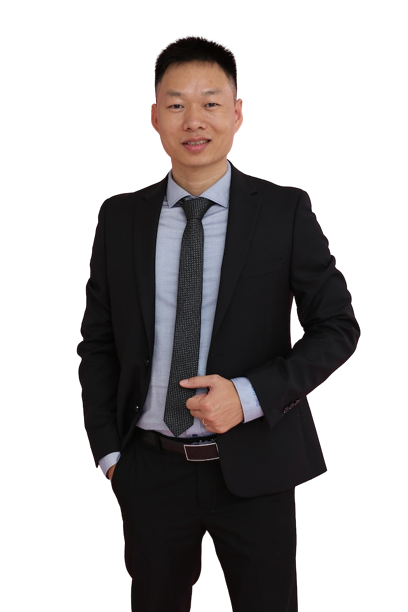
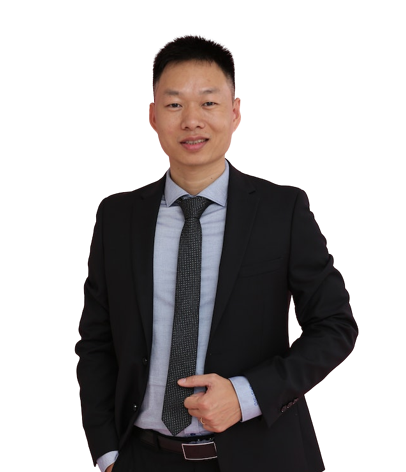
fix coach bg-color

Changed region(s): [[0.1773, 0.0593, 0.8867, 1.0], [0.7094, 0.4746, 0.7685, 0.5636]]

diff --git a/client/src/sections/Hero.tsx b/client/src/sections/Hero.tsx
@@ -13,19 +13,20 @@ function Hero() {
   const handleOnClose = () => setShowLogin(false);
 
   return (
-    <section className='text-white'>
+    <section>
       <div
         style={{ backgroundImage: `url(${kingToKing})` }}
-        className={`flex h-screen items-center bg-no-repeat object-cover px-10 md:justify-end lg:bg-cover`}>
-        <div className='sm:mt-40'>
-          <h1 className='text-3xl font-bold leading-snug tracking-wider sm:text-5xl md:text-7xl'>{slogan}</h1>
-          <div className='mt-20'>
-            <p>{callToAction}</p>
-            <button className='mt-2 flex items-center rounded-lg  border-2 border-cyan-400 p-4'>
-              Join Now
-              {/* <AiOutlineArrowRight className='ml-1 fill-cyan-500' /> */}
-              <BsArrowRight className='ml-1 fill-cyan-500 text-2xl' />
-            </button>
+        className={` grid h-screen justify-end bg-right bg-no-repeat object-cover px-10 text-white lg:aspect-h-9 lg:aspect-w-16 lg:grid-cols-12 lg:bg-cover`}>
+        <div className='grid place-items-center px-4 lg:col-span-full lg:col-start-6'>
+          <div>
+            <h1 className='text-3xl font-bold leading-snug tracking-wider sm:text-5xl md:text-7xl'>{slogan}</h1>
+            <div className='mt-20'>
+              <p>{callToAction}</p>
+              <button className='mt-2 flex items-center rounded-lg  border-2 border-cyan-400 p-4'>
+                Join Now
+                <BsArrowRight className='ml-1 fill-cyan-500 text-2xl' />
+              </button>
+            </div>
           </div>
         </div>
       </div>
@@ -34,3 +35,21 @@ function Hero() {
 }
 
 export default Hero;
+
+// <section className='text-white'>
+//   <div
+//     style={{ backgroundImage: `url(${kingToKing})` }}
+//     className={`flex h-screen items-center bg-no-repeat object-cover px-10 md:justify-end lg:bg-cover`}>
+//     <div className='sm:mt-40'>
+//       <h1 className='text-3xl font-bold leading-snug tracking-wider sm:text-5xl md:text-7xl'>{slogan}</h1>
+//       <div className='mt-20'>
+//         <p>{callToAction}</p>
+//         <button className='mt-2 flex items-center rounded-lg  border-2 border-cyan-400 p-4'>
+//           Join Now
+//           {/* <AiOutlineArrowRight className='ml-1 fill-cyan-500' /> */}
+//           <BsArrowRight className='ml-1 fill-cyan-500 text-2xl' />
+//         </button>
+//       </div>
+//     </div>
+//   </div>
+// </section>

diff --git a/client/src/sections/coaches/Coaches.tsx b/client/src/sections/coaches/Coaches.tsx
@@ -1,5 +1,6 @@
 import React from 'react';
-import studentList from './coach-list';
+import coachList from './coach-list';
+import CoachCard from './CoachCard';
 
 function Coaches() {
   const coachIntro = 'These brilliant minds will surely help you ';
@@ -14,25 +15,7 @@ function Coaches() {
             <span className='self-center md:text-6xl'>Meet Your Coaches</span>
           </h1>
           <p className=' text-xs sm:row-start-2 sm:self-center'>{coachIntro}</p>
-          {studentList.map((student, index) => {
-            return (
-              <div>
-                <div
-                  key={index}
-                  style={{ backgroundImage: `url(${student.portrait})` }}
-                  className={`${student.color} sm:square h-16 bg-cover bg-no-repeat shadow-xl  backdrop-grayscale sm:h-auto`}
-                />
-                <div className='mt-2 flex items-center justify-center space-x-1'>
-                  <h2 className='text-center text-lg '>
-                    <span className='mr-1 rounded bg-cyan-500 px-1 font-bold'>{student.title}</span>
-                    {student.name}
-                    <span className='ml-1'>({student.rating})</span>
-                  </h2>
-                  <img src={student.flag} alt='country-flag' className='h-4 w-4' />
-                </div>
-              </div>
-            );
-          })}
+          <CoachCard />
         </div>
       </div>
     </section>
@@ -40,3 +23,14 @@ function Coaches() {
 }
 
 export default Coaches;
+
+// <div
+//   key={index}
+//   style={{ backgroundImage: `url(${student.portrait})`, boxShadow: '2px 2px #cec7c759' }}
+//   className={`from sm:square h-16 bg-gradient-to-b from-cyan-600 bg-cover bg-no-repeat shadow-lg backdrop-grayscale sm:h-auto`}
+// />
+
+// <div
+//   className={`sm:square relative h-16 overflow-hidden ${coach.color} bg-gradient-to-b bg-cover bg-no-repeat shadow-lg backdrop-grayscale sm:h-auto`}>
+//   <img src={coach.portrait} alt='coach-portrait' className='object-cover shadow-xl' />
+// </div>

diff --git a/client/src/sections/coaches/CoachCard.tsx b/client/src/sections/coaches/CoachCard.tsx
@@ -1,0 +1,31 @@
+import React from 'react';
+import coachList from './coach-list';
+
+function CoachCard() {
+  return (
+    <>
+      {coachList.map((coach, index) => {
+        return (
+          <div key={index}>
+            <div className={`bg-gradient-to-b ${coach.color} shadow-lg`}>
+              <img
+                src={coach.portrait}
+                alt='coach-portrait'
+                className={`sm:square relative mx-auto h-60 bg-cover bg-no-repeat sm:h-auto`}></img>
+            </div>
+            <div className='mt-2 flex items-center justify-center space-x-1'>
+              <h2 className='text-center text-sm md:text-lg  '>
+                <span className='mr-1 rounded bg-cyan-500 px-1 font-bold'>{coach.title}</span>
+                {coach.name}
+                <span className='ml-1'>({coach.rating})</span>
+              </h2>
+              <img src={coach.flag} alt='country-flag' className='h-4 w-4' />
+            </div>
+          </div>
+        );
+      })}
+    </>
+  );
+}
+
+export default CoachCard;

diff --git a/client/src/components/navbar/Navbar.tsx b/client/src/components/navbar/Navbar.tsx
@@ -31,7 +31,8 @@ function Navbar() {
     setIsOpen((isOpen) => !isOpen);
   };
   return (
-    <header className='blur-backdrop-filter  fixed top-0 z-10  w-full bg-zinc-900 bg-opacity-80 bg-clip-padding py-2 text-white xs:bg-red-500 sm:bg-orange-500 md:bg-yellow-500 md:px-12 lg:bg-green-900 xl:bg-blue-900 2xl:bg-violet-900'>
+    // <header className='blur-backdrop-filter  fixed top-0 z-10  w-full bg-zinc-900 bg-opacity-80 bg-clip-padding py-2 text-white xs:bg-red-500 sm:bg-orange-500 md:bg-yellow-500 md:px-12 lg:bg-green-900 xl:bg-blue-900 2xl:bg-violet-900'>
+    <header className='blur-backdrop-filter  fixed top-0 z-10  w-full bg-zinc-900 bg-opacity-80 bg-clip-padding py-2 text-white '>
       <nav className=' hidden justify-between md:flex  md:px-0 lg:px-20 xl:px-32'>
         <div className='flex items-center'>
           <img src={Logo} alt='chess-mastery-logo' className='h-8 w-8 fill-cyan-500' />

diff --git a/client/src/sections/coaches/coach-list.ts b/client/src/sections/coaches/coach-list.ts
@@ -37,6 +37,7 @@ const Coaches: TCoaches[] = [
     name: 'Jordan BergenDahl',
     portrait: jordanBergendahl,
     color: 'bg-white',
+    // color: 'from-zinc-400 to-zinc-100',
     flag: philippines,
   },
   {
@@ -52,14 +53,13 @@ const Coaches: TCoaches[] = [
     rating: '2235',
     name: 'Paul Le',
     portrait: paulLe,
-    // color: 'bg-cyan-500',
-    color: 'bg-[#0e1111]',
+    color: 'from-black to-zinc-600',
     flag: philippines,
   },
   {
     title: 'WGM',
     rating: '2191',
-    name: 'Pham Duy Quang',
+    name: 'Pham Quang',
     portrait: phamDuy,
     color: 'bg-white',
     flag: philippines,
@@ -69,8 +69,7 @@ const Coaches: TCoaches[] = [
     rating: '2172',
     name: 'Tung An Vuong',
     portrait: tungAn,
-    // color: 'bg-cyan-500',
-    color: 'bg-[#0e1111]',
+    color: 'from-black to-zinc-600',
     flag: philippines,
   },
   {

diff --git a/client/src/sections/fill/fillCard.tsx b/client/src/sections/fill/fillCard.tsx
@@ -1,4 +1,4 @@
-import coachList from './coachList';
+import coachList from './filllist';
 
 function CoachCards() {
   const introduction =
@@ -10,7 +10,7 @@ function CoachCards() {
           <div key={index} className=' rounded-lg bg-darkTheme-lightDark shadow-lg'>
             {/* <div className='aspect-h-1 aspect-w-1 lg:aspect-h-2 lg:aspect-w-2 sm:aspect-1'> */}
             <div className='aspect-square'>
-              <img src={coach.portrait} alt='coach-portrait' className='max-w-full rounded-t-lg' />
+              {/* <img src={coach.portrait} alt='coach-portrait' className='max-w-full rounded-t-lg' /> */}
             </div>
             <div>
               {/* <div className='-mt-44 py-2'> */}

diff --git a/client/src/sections/proposition/Proposition.tsx b/client/src/sections/proposition/Proposition.tsx
@@ -23,17 +23,3 @@ function Proposition() {
 }
 
 export default Proposition;
-
-// <section>
-//   <div className='my-96 flex h-screen items-center justify-center'>
-//     <div className='grid justify-items-center opacity-100'>
-//       <h2 className='text-center text-3xl font-bold tracking-wide xs:text-4xl sm:text-6xl md:text-7xl'>
-//         Why Choose Us?
-//       </h2>
-//       <p className=' mt-2  max-w-xs px-2 text-center text-sm leading-relaxed tracking-wider sm:max-w-lg sm:text-base'>
-//         {proposition}
-//       </p>
-//       <AmenitiesCards />
-//     </div>
-//   </div>
-// </section>

diff --git a/client/src/App.tsx b/client/src/App.tsx
@@ -1,6 +1,6 @@
 import { useState } from 'react';
 import Layout from './components/layout/Layout';
-import Coaches from './sections/fill/Coaches';
+import Coaches from './sections/fill/FillCoache';
 import Hero from './sections/Hero';
 import Membership from './sections/membership/Membership';
 import Login from './pages/login/Login';

diff --git a/client/src/components/layout/Layout.tsx b/client/src/components/layout/Layout.tsx
@@ -4,7 +4,7 @@ import Navbar from '../navbar/Navbar';
 
 function Layout({ children }: { children: React.ReactNode }) {
   return (
-    <div className='overflow-y-hidden font-poppins'>
+    <div className='font-poppins'>
       <Navbar />
       {children}
       <Footer />

diff --git a/client/src/sections/fill/FillCoache.tsx b/client/src/sections/fill/FillCoache.tsx
@@ -1,4 +1,4 @@
-import CoachCards from './CoachCards';
+import CoachCards from './fillCard';
 
 function Coaches() {
   const sectionTitle = `Let's meet the Coaches`;
